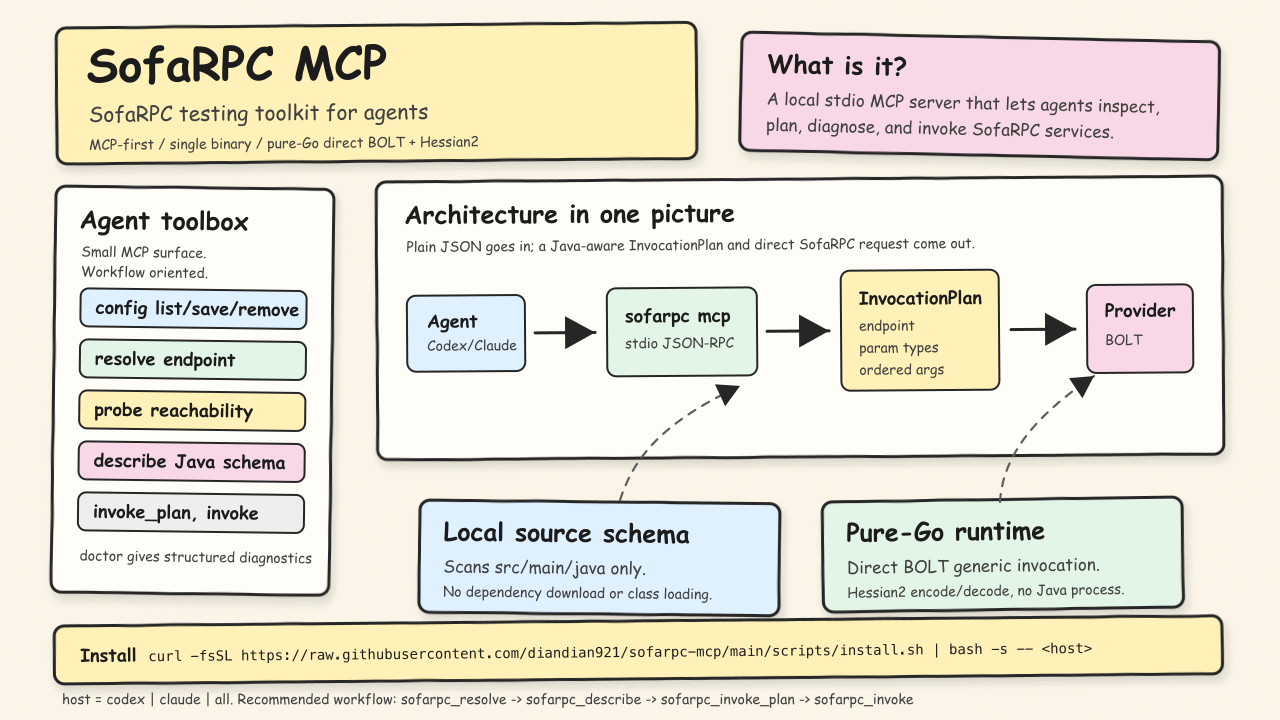
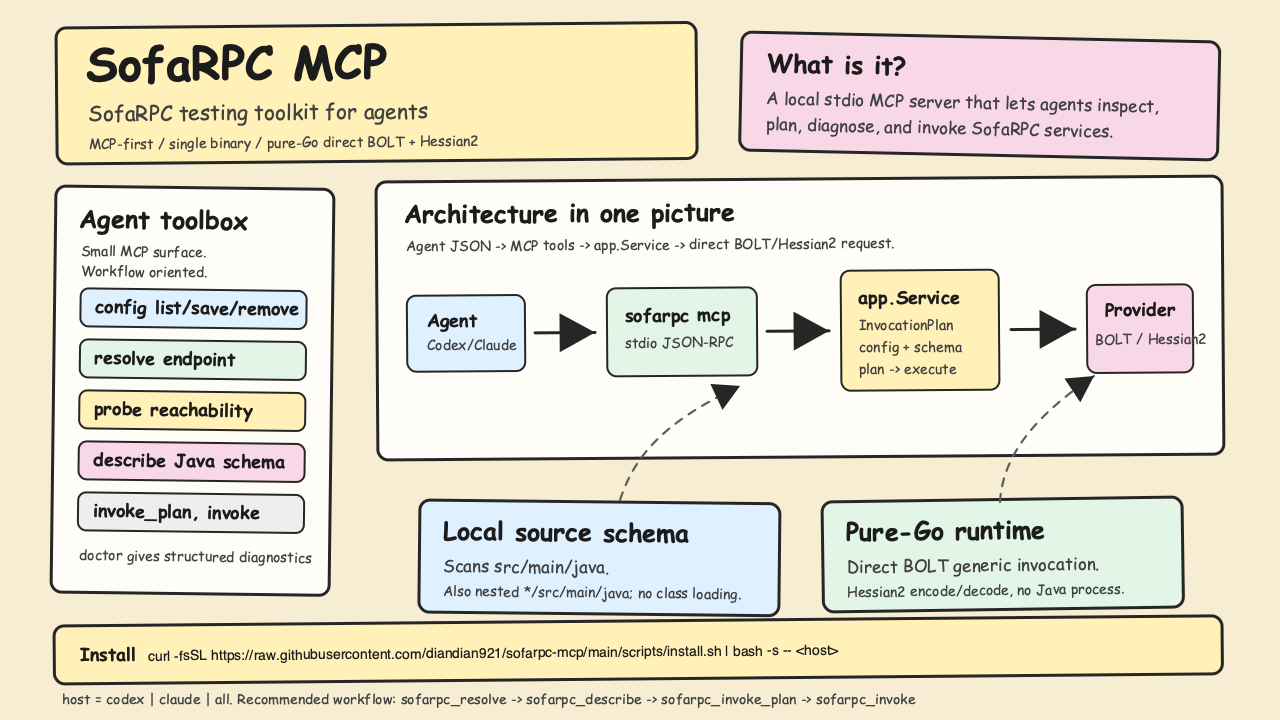
docs: align README with current architecture

diff --git a/internal/mcp/tools/resource_sdk.go b/internal/mcp/tools/resource_sdk.go
@@ -17,13 +17,13 @@ type compatEntry struct {
 }
 
 // compatibilitySummary is a curated, machine-readable digest of the pure-Go
-// BOLT/Hessian2 type support (the prose source of truth is docs/compatibility-matrix.md).
+// BOLT/Hessian2 type support, kept as the machine-readable source of truth.
 // It is safe to expose as a resource: no config, no secrets, just the runtime's
 // Java/Hessian capability matrix. Built from structs so it is always valid JSON.
 var compatibilitySummary = func() json.RawMessage {
 	doc := map[string]interface{}{
 		"runtime":   "pure Go direct BOLT/Hessian2",
-		"reference": "docs/compatibility-matrix.md",
+		"reference": "README.md#runtime-boundaries",
 		"types": []compatEntry{
 			{"Integer / Long / Double", "supported", "Numeric request encoding uses the declared Java types, so values do not depend on Go JSON number shape."},
 			{"String", "supported", "UTF-16 length with Java-compatible CESU-8 bytes; non-BMP characters supported."},

diff --git a/internal/direct/hessian_special.go b/internal/direct/hessian_special.go
@@ -15,8 +15,7 @@ import (
 // and reconstructs via readResolve) and BigInteger's signum/mag object. The app
 // layer hands these down as a neutral javavalue.Scalar(javaType, canonicalString)
 // and this codec-level code turns them into the object tree, mirroring how Date
-// and BigDecimal are already handled in writeJavaScalar. See
-// docs/special-type-encoding-pushdown-design.md.
+// and BigDecimal are already handled in writeJavaScalar.
 //
 // The builders produce a javavalue.Object and the caller writes it through
 // writeTypedValue, so the object goes through the same field-sorting path as any

diff --git a/internal/direct/hessian_special_encode_test.go b/internal/direct/hessian_special_encode_test.go
@@ -15,7 +15,7 @@ import (
 //     signum-mag object tree), and
 //   - the neutral scalar form the app layer now emits, which the direct writer
 //     shapes into the same object (see hessian_special.go and
-//     docs/special-type-encoding-pushdown-design.md).
+//     the direct writer's special-type shaping path).
 //
 // Both must encode to the identical hex, so the encoding pushdown is verified
 // byte-for-byte in normal CI (no JVM). The hex is Go's own deterministic output

diff --git a/internal/appconfig/home.go b/internal/appconfig/home.go
@@ -16,7 +16,7 @@ const DefaultDirName = ".sofarpc"
 // every path the CLI and MCP server depend on derives from it, so callers
 // never hardcode ~/.sofarpc.
 //
-// Resolution order (per docs/install-and-host-setup-first-principles.md):
+// Resolution order:
 //  1. explicit SOFARPC_HOME if set;
 //  2. else, if the running executable sits in a bin/ whose parent contains
 //     config.json, that parent (the canonical-install case);

diff --git a/README.md b/README.md
@@ -19,8 +19,9 @@ A single binary `sofarpc` does everything: setup/diagnostic commands (`sofarpc p
     schema/
 ```
 
-`config.json` and cache are never overwritten; upgrade just replaces the
-binaries at the same canonical path.
+Installation and upgrades do not overwrite `config.json` or the schema cache;
+they only replace the binary at the same canonical path. The runtime may
+refresh or remove stale schema-cache entries as source indexes are used.
 
 ## Install
 
@@ -37,9 +38,9 @@ curl -fsSL https://raw.githubusercontent.com/diandian921/sofarpc-mcp/main/script
 ```
 
 Pin a release with `--version vX.Y.Z`. Without a host argument it installs
-the binary only and prints the next step. `@latest` requires a published
-plain `vX.Y.Z` tag on a root-module commit; the bootstrap resolves it via
-the GitHub redirect.
+the binary only and prints the next step. Without `--version`, the bootstrap
+follows GitHub's `releases/latest` redirect; the Go install alternative uses
+an explicit release tag.
 
 <details>
 <summary>Alternative: with Go</summary>
@@ -78,7 +79,8 @@ Build release archives for the full platform matrix:
 ./scripts/package.sh
 ```
 
-Each archive contains the `sofarpc` binary and `README.md`; a single
+Each archive contains the platform `sofarpc` binary, `README.md`, and the
+`docs/readme-hero.svg` architecture image; a single
 `SHA256SUMS` file covers all archives. Requirements: Go 1.25+ when building
 from source (the MCP layer uses the official `modelcontextprotocol/go-sdk`).
 
@@ -146,7 +148,9 @@ or named arguments when local source can resolve the method signature:
 }
 ```
 
-Use `sofarpc_invoke_plan` to inspect the endpoint, parameter types, ordered arguments, and protocol payload without sending a SofaRPC request.
+Use `sofarpc_invoke_plan` to inspect the resolved endpoint, Java parameter
+types, typed ordered arguments, and planning warnings without sending a
+SofaRPC request. It does not emit wire-level BOLT/Hessian2 bytes.
 
 Set `rawResult=true` when debugging serialization or response shape problems. The response then includes both the normal flattened `result` and the decoded Java object shape as `rawResult`.
 
@@ -253,7 +257,7 @@ The JSON-RPC protocol layer is the official `modelcontextprotocol/go-sdk` (stdio
 
 Declared capabilities: `tools` (static list), `prompts`, `resources`, and `logging` (`notifications/message`). The async tools (`sofarpc_invoke`, `sofarpc_invoke_plan`, `sofarpc_probe`, `sofarpc_describe`, `sofarpc_doctor`) honor `notifications/cancelled` (a cancelled request receives no final response). Of these, `sofarpc_invoke`, `sofarpc_doctor`, and `sofarpc_describe` emit `notifications/progress` when the client supplies a `progressToken` (accepted only as a JSON string or integer).
 
-Every tool declares a per-tool `outputSchema` that describes the shape of its own `data` (not just the shared envelope), and returns its result both as `structuredContent` and as that same JSON serialized into a `text` content block, so a client that does not read structured content still receives the full result. The one-line human summary is carried in `_meta.summary`, alongside `requestId` and `elapsedMs`.
+Every tool declares a per-tool `outputSchema` that describes the shape of its own `data` (not just the shared envelope). Small results are mirrored as the same JSON in a `text` content block; for results larger than 32 KiB, the full envelope remains in `structuredContent` and the text block becomes a pointer. `_meta.elapsedMs` is always present; `_meta.summary` and `requestId` are included when available.
 
 Input and output schemas are advisory host/LLM hints. Argument and business validation run in the handler and surface as the `app.Result` envelope (`isError` plus a recovery `nextTool` / `recovery`), never as a JSON-RPC protocol error; an unknown argument is rejected as an invalid-arguments envelope. `sofarpc_invoke` accepts only the advertised `paramTypes` / `orderedArguments` names — the former `types` / `args` aliases were removed.
 
